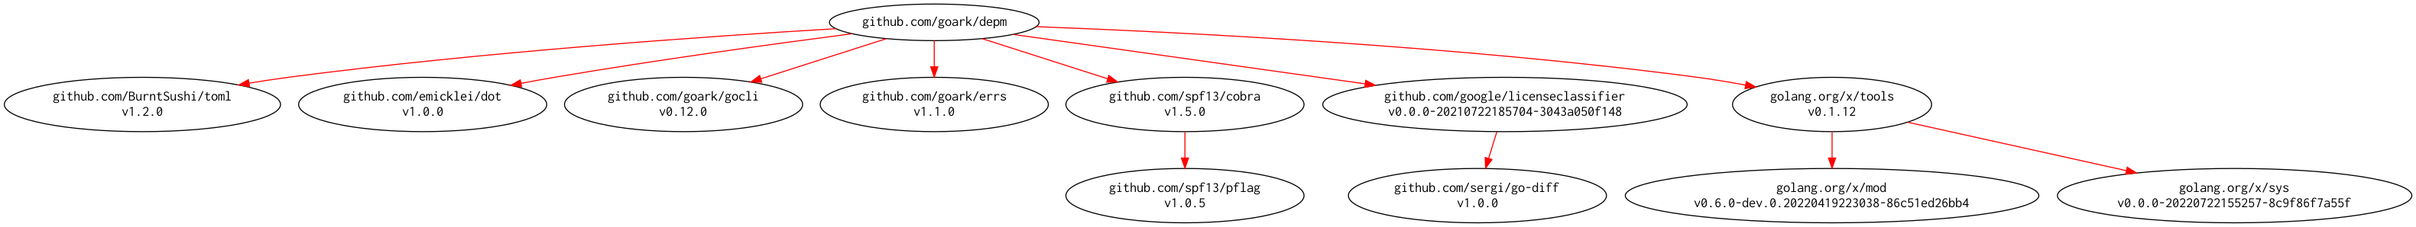
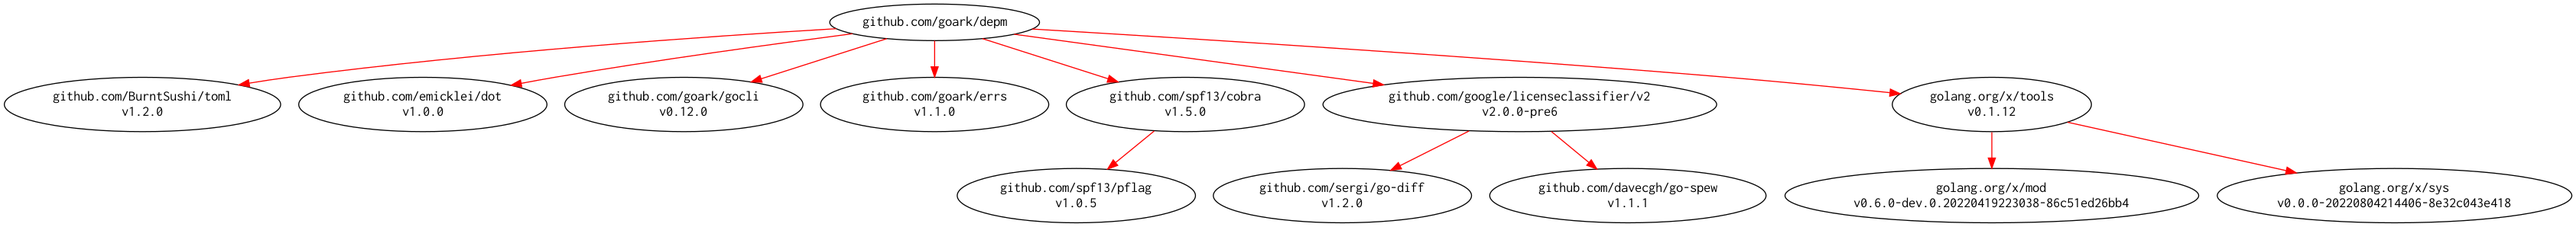
Upgrade github.com/google/licenseclassifier/v2

diff --git a/modules/licenses.go b/modules/licenses.go
@@ -5,17 +5,17 @@ import (
 	"path/filepath"
 	"regexp"
 
-	"github.com/google/licenseclassifier"
-	"github.com/google/licenseclassifier/stringclassifier"
+	licenseclassifier "github.com/google/licenseclassifier/v2"
+	"github.com/google/licenseclassifier/v2/assets"
 )
 
 var (
 	licenseRegexp = regexp.MustCompile(`^(?i)(LICEN(S|C)E|COPYING|README|NOTICE)(\..+)?$`)
-	classifier    *licenseclassifier.License
+	classifier    *licenseclassifier.Classifier
 )
 
 func init() {
-	classifier, _ = licenseclassifier.New(licenseclassifier.DefaultConfidenceThreshold)
+	classifier, _ = assets.DefaultClassifier()
 }
 
 func FindLicense(dir string) string {
@@ -27,16 +27,8 @@ func FindLicense(dir string) string {
 		if licenseRegexp.MatchString(f.Name()) {
 			path := filepath.Join(dir, f.Name())
 			if content, err := os.ReadFile(path); err == nil {
-				matches := func() stringclassifier.Matches {
-					defer func() {
-						if r := recover(); r != nil {
-							return
-						}
-					}()
-					return classifier.MultipleMatch(string(content), true)
-				}()
-				if len(matches) > 0 {
-					return matches[0].Name
+				if res := classifier.Match(content); len(res.Matches) > 0 {
+					return res.Matches[0].Name
 				}
 			}
 		}
@@ -44,7 +36,7 @@ func FindLicense(dir string) string {
 	return ""
 }
 
-/* Copyright 2021 Spiegel
+/* Copyright 2021-2022 Spiegel
  *
  * Licensed under the Apache License, Version 2.0 (the "License");
  * you may not use this file except in compliance with the License.
